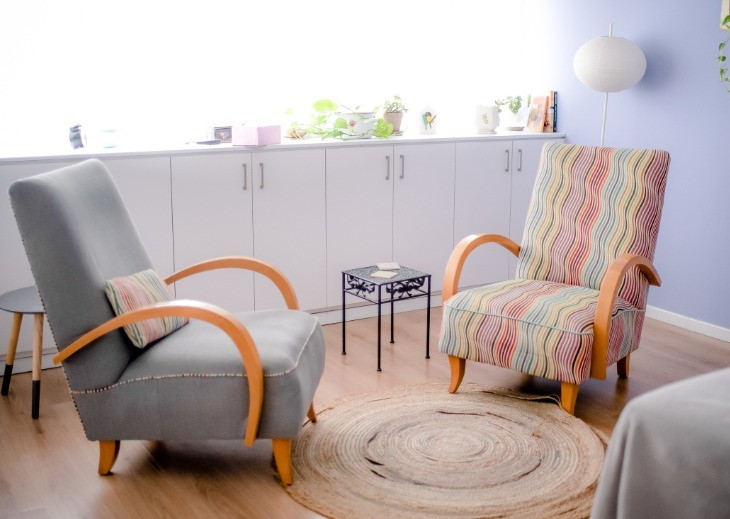
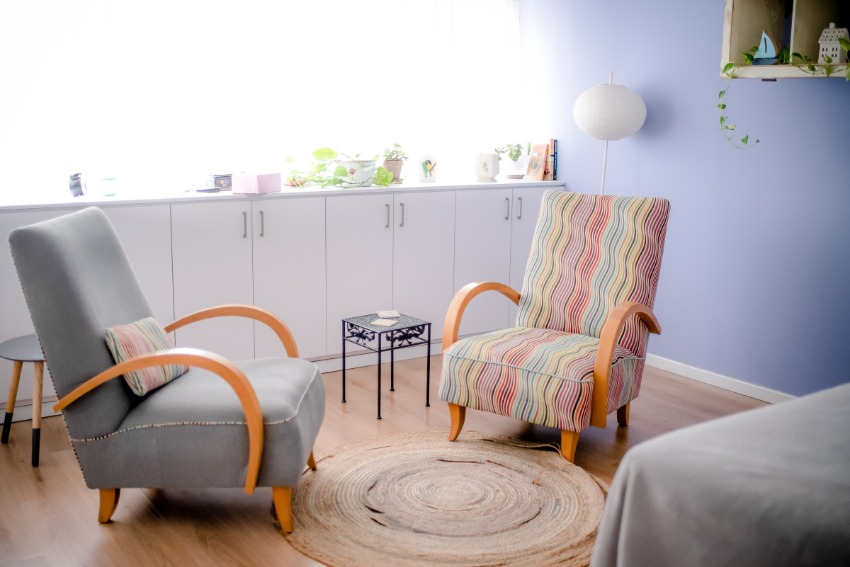
6

diff --git a/_site/onboarding/index.html b/_site/onboarding/index.html
@@ -221,12 +221,15 @@
         border-radius: 16px;
         max-height: 250px; 
         width: 100%;
+        max-width: 100%;
+        width: fit-content;
         overflow: hidden;
         display: flex;
         justify-content: center;
         box-shadow: 0 10px 30px rgba(0,0,0,0.08);
     }
     .final-image-container img { width: 100%; height: 100%; object-fit: cover; }
+    .final-image-container img { max-width: 100%; max-height: 250px; width: auto; height: auto; object-fit: contain; display: block; }
 
     .friendly-input { width: 100%; padding: 12px; margin-bottom: 12px; border: 1px solid #ddd; border-radius: 12px; background: #fafafa; font-size: 1.1rem; transition: border 0.3s; }
     .friendly-input:focus { border-color: var(--primary-purple); outline: none; background: #fff; }
@@ -297,6 +300,8 @@
         .step-dot { width: 24px; height: 24px; font-size: 0.8rem; }
         .step-label { font-size: 0.7rem; }
         .final-image-container { max-height: 220px; } 
+        .final-image-container { max-height: 220px; }
+        .final-image-container img { max-height: 220px; }
     }
 </style>
 

diff --git a/onboarding.html b/onboarding.html
@@ -225,12 +225,15 @@ step6_waiting: "אני מחכה לפגוש אותך."
         border-radius: 16px;
         max-height: 250px; 
         width: 100%;
+        max-width: 100%;
+        width: fit-content;
         overflow: hidden;
         display: flex;
         justify-content: center;
         box-shadow: 0 10px 30px rgba(0,0,0,0.08);
     }
     .final-image-container img { width: 100%; height: 100%; object-fit: cover; }
+    .final-image-container img { max-width: 100%; max-height: 250px; width: auto; height: auto; object-fit: contain; display: block; }
 
     .friendly-input { width: 100%; padding: 12px; margin-bottom: 12px; border: 1px solid #ddd; border-radius: 12px; background: #fafafa; font-size: 1.1rem; transition: border 0.3s; }
     .friendly-input:focus { border-color: var(--primary-purple); outline: none; background: #fff; }
@@ -301,6 +304,8 @@ step6_waiting: "אני מחכה לפגוש אותך."
         .step-dot { width: 24px; height: 24px; font-size: 0.8rem; }
         .step-label { font-size: 0.7rem; }
         .final-image-container { max-height: 220px; } 
+        .final-image-container { max-height: 220px; }
+        .final-image-container img { max-height: 220px; }
     }
 </style>
 